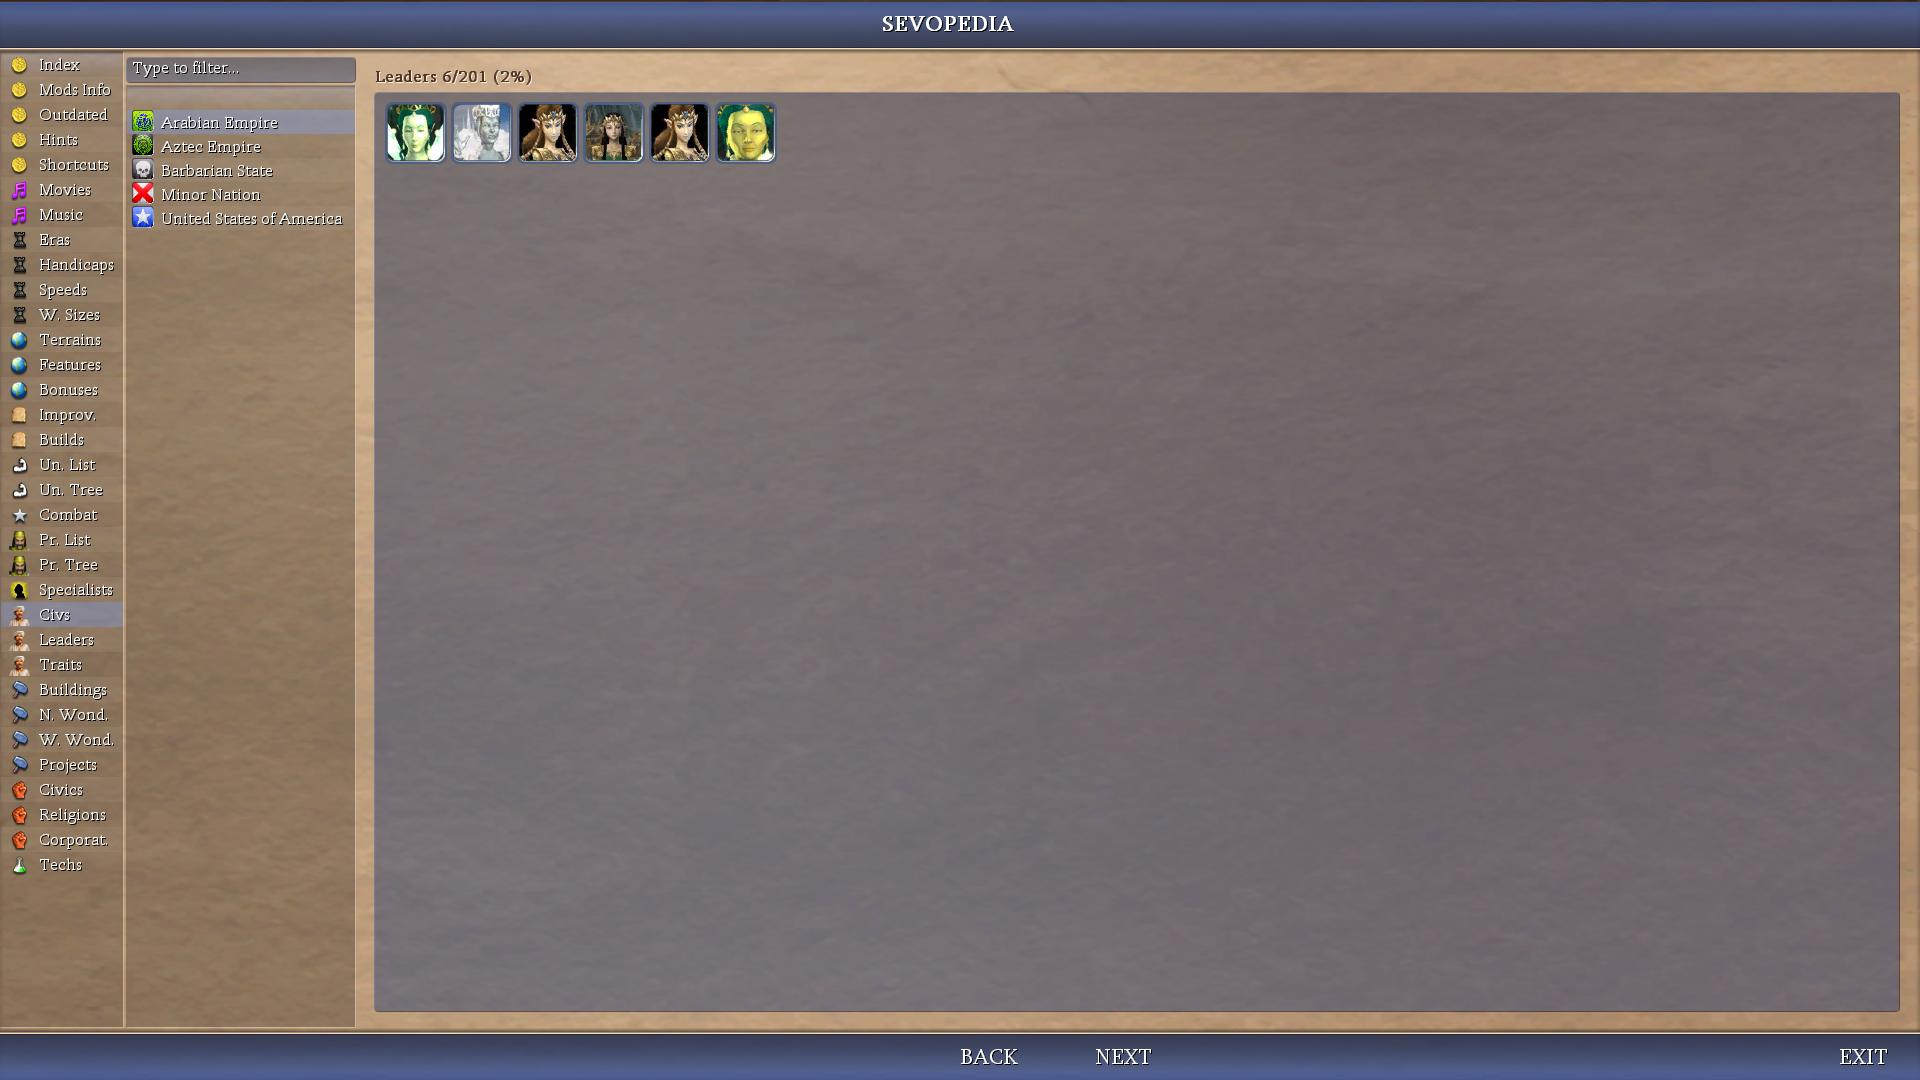
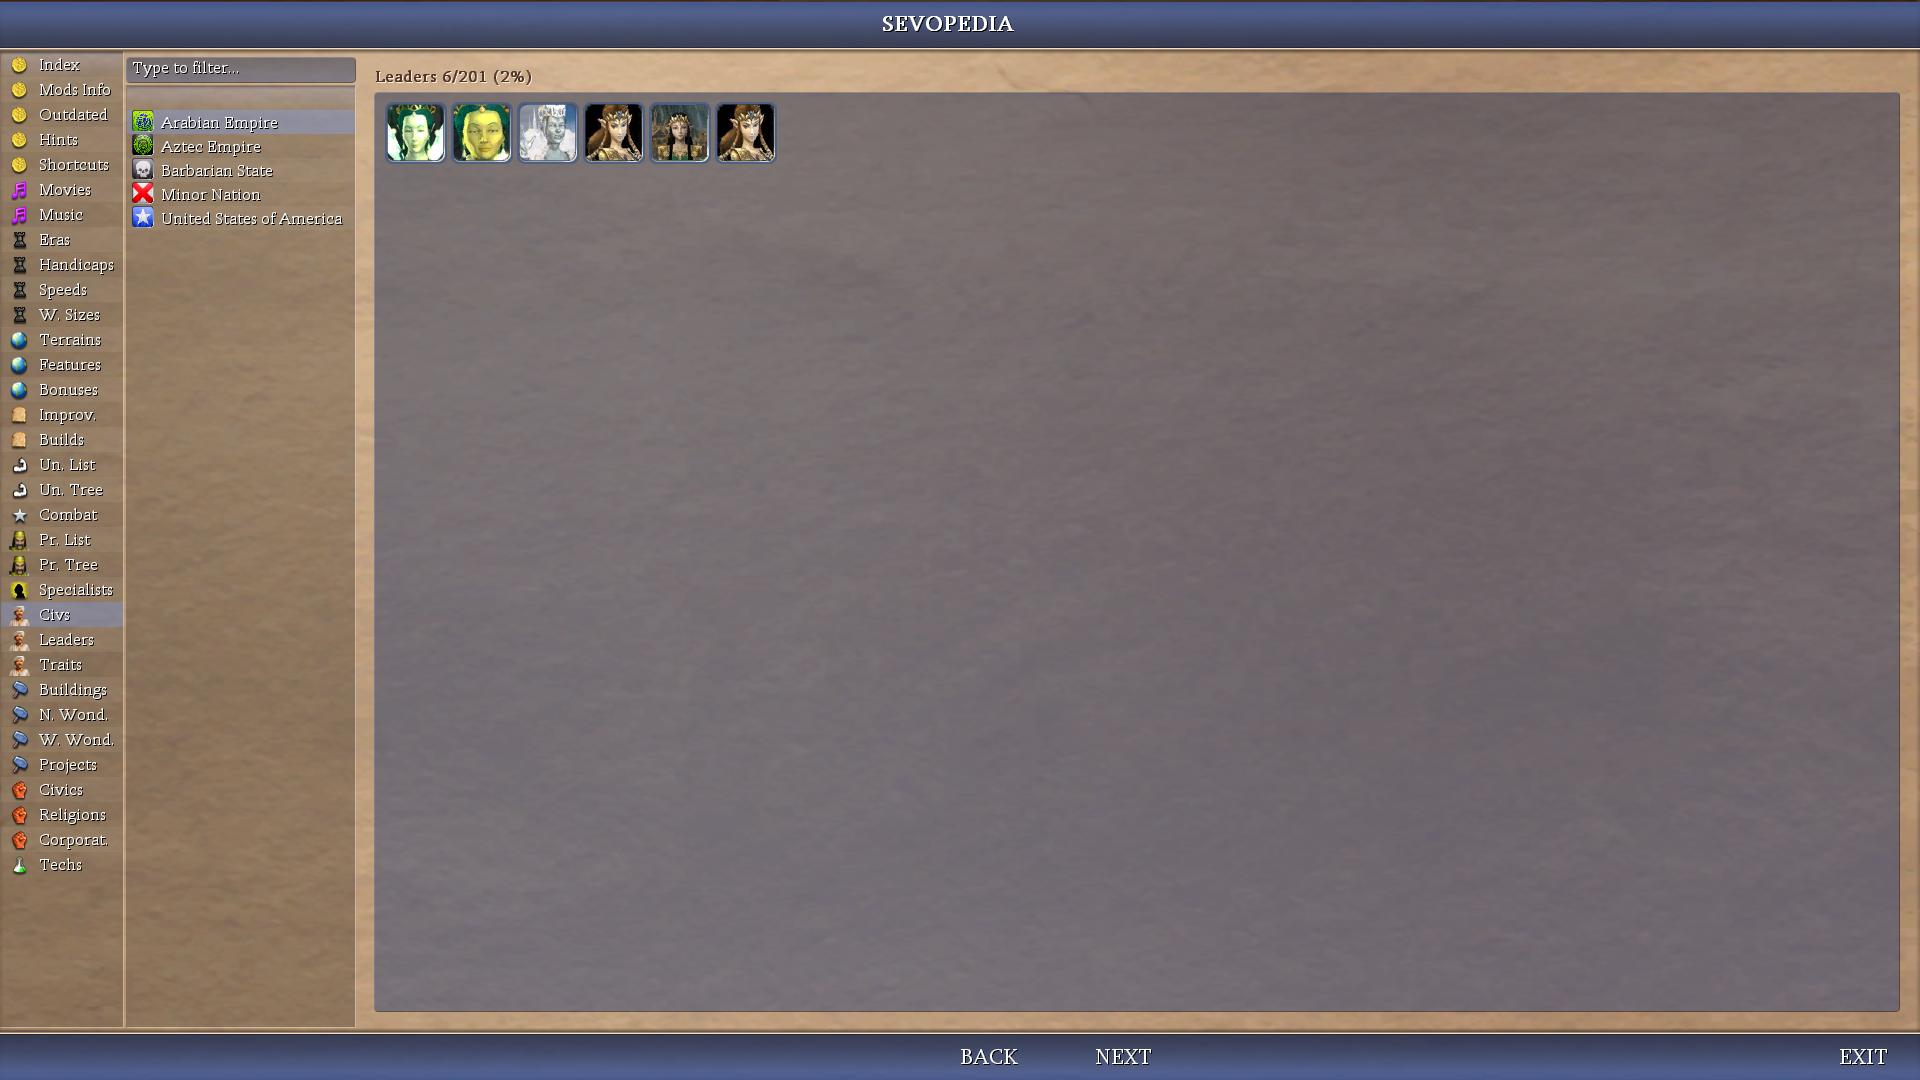
sort leaders in sevopedia civilizations; add loud fail to track intermittent annoying KI#111 and attempt to fix it if possible cleanly

Changed region(s): [[0.2188, 0.0917, 0.4062, 0.1528]]

diff --git a/Assets/Python/Contrib/Sevopedia/SevoPediaCivilization.py b/Assets/Python/Contrib/Sevopedia/SevoPediaCivilization.py
@@ -95,6 +95,14 @@ class SevoPediaCivilization:
 		self.Y_LEADER_GALLERY = self.Y_HISTORY
 		self.W_LEADER_GALLERY = self.W_HISTORY
 		self.H_LEADER_GALLERY = self.H_HISTORY
+		# <!-- custom: NIF Gallery layout - cache alphabetical leader order once per session to avoid per-civ sorting. (GPT-5.2-Codex) -->
+		if not hasattr(self.top, "SAS_leader_sorted_cache"):
+			cache = []
+			for iLeader in range(gc.getNumLeaderHeadInfos()):
+				leaderInfo = gc.getLeaderHeadInfo(iLeader)
+				cache.append((leaderInfo.getDescription(), iLeader, leaderInfo.getButton()))
+			cache.sort()
+			self.top.SAS_leader_sorted_cache = cache
 
 
 
@@ -230,10 +238,9 @@ class SevoPediaCivilization:
 		multiListH = hPanel + MULTI_LIST_PANEL_ADDITIONAL_H
 		screen.addMultiListControlGFC(rowListName, "", multiListX, multiListY, multiListW, multiListH, SEVOPEDIA_MULTILIST_NUM_LISTS_AUTO_CALCULATE, MULTILIST_BUTTON_SIZE, MULTILIST_BUTTON_SIZE, TableStyles.TABLE_STYLE_STANDARD)
 
-		for iLeader in leader_ids:
+		for leaderName, iLeader, buttonPath in self.top.SAS_leader_sorted_cache:
 			if gc.getCivilizationInfo(self.iCivilization).isLeaders(iLeader):
-				leaderInfo = gc.getLeaderHeadInfo(iLeader)
-				screen.appendMultiListButton(rowListName, leaderInfo.getButton(), SEVOPEDIA_MULTILIST_COLUMN_INDEX_AUTO, WidgetTypes.WIDGET_PEDIA_JUMP_TO_LEADER, iLeader, self.iCivilization, False)
+				screen.appendMultiListButton(rowListName, buttonPath, SEVOPEDIA_MULTILIST_COLUMN_INDEX_AUTO, WidgetTypes.WIDGET_PEDIA_JUMP_TO_LEADER, iLeader, self.iCivilization, False)
 
 
 	def placeHistory(self):

diff --git a/Assets/Python/Contrib/Sevopedia/SevoPediaIndex.py b/Assets/Python/Contrib/Sevopedia/SevoPediaIndex.py
@@ -185,6 +185,15 @@ class SevoPediaIndex:
 		for item in civList:
 			list.append([item[0],"Civ",item])
 		for item in leaderList:
+			# <!-- custom: AdvCiv-SAS KI#111 - fail loudly on non-ascii leader names so we can identify the bad entry.
+			# We documented this in AdvCiv-SAS (not NIF Gallery) even though the symptom matches; this is where we need the
+			# explicit error to trace the root cause since AdvCiv-SAS did not show it yet. (GPT-5.2-Codex) -->
+			name = item[0]
+			if not isinstance(name, unicode):
+				try:
+					name.decode('ascii')
+				except UnicodeDecodeError:
+					raise Exception("SevoPediaIndex: non-ascii leader name in leaderList: %r (item=%r). Fix leader text or path case; see KI#111." % (name, item))
 			list.append([item[0],"Leader",item])
 		for item in traitList:
 			list.append([item[0][2:],"Trait",item])
